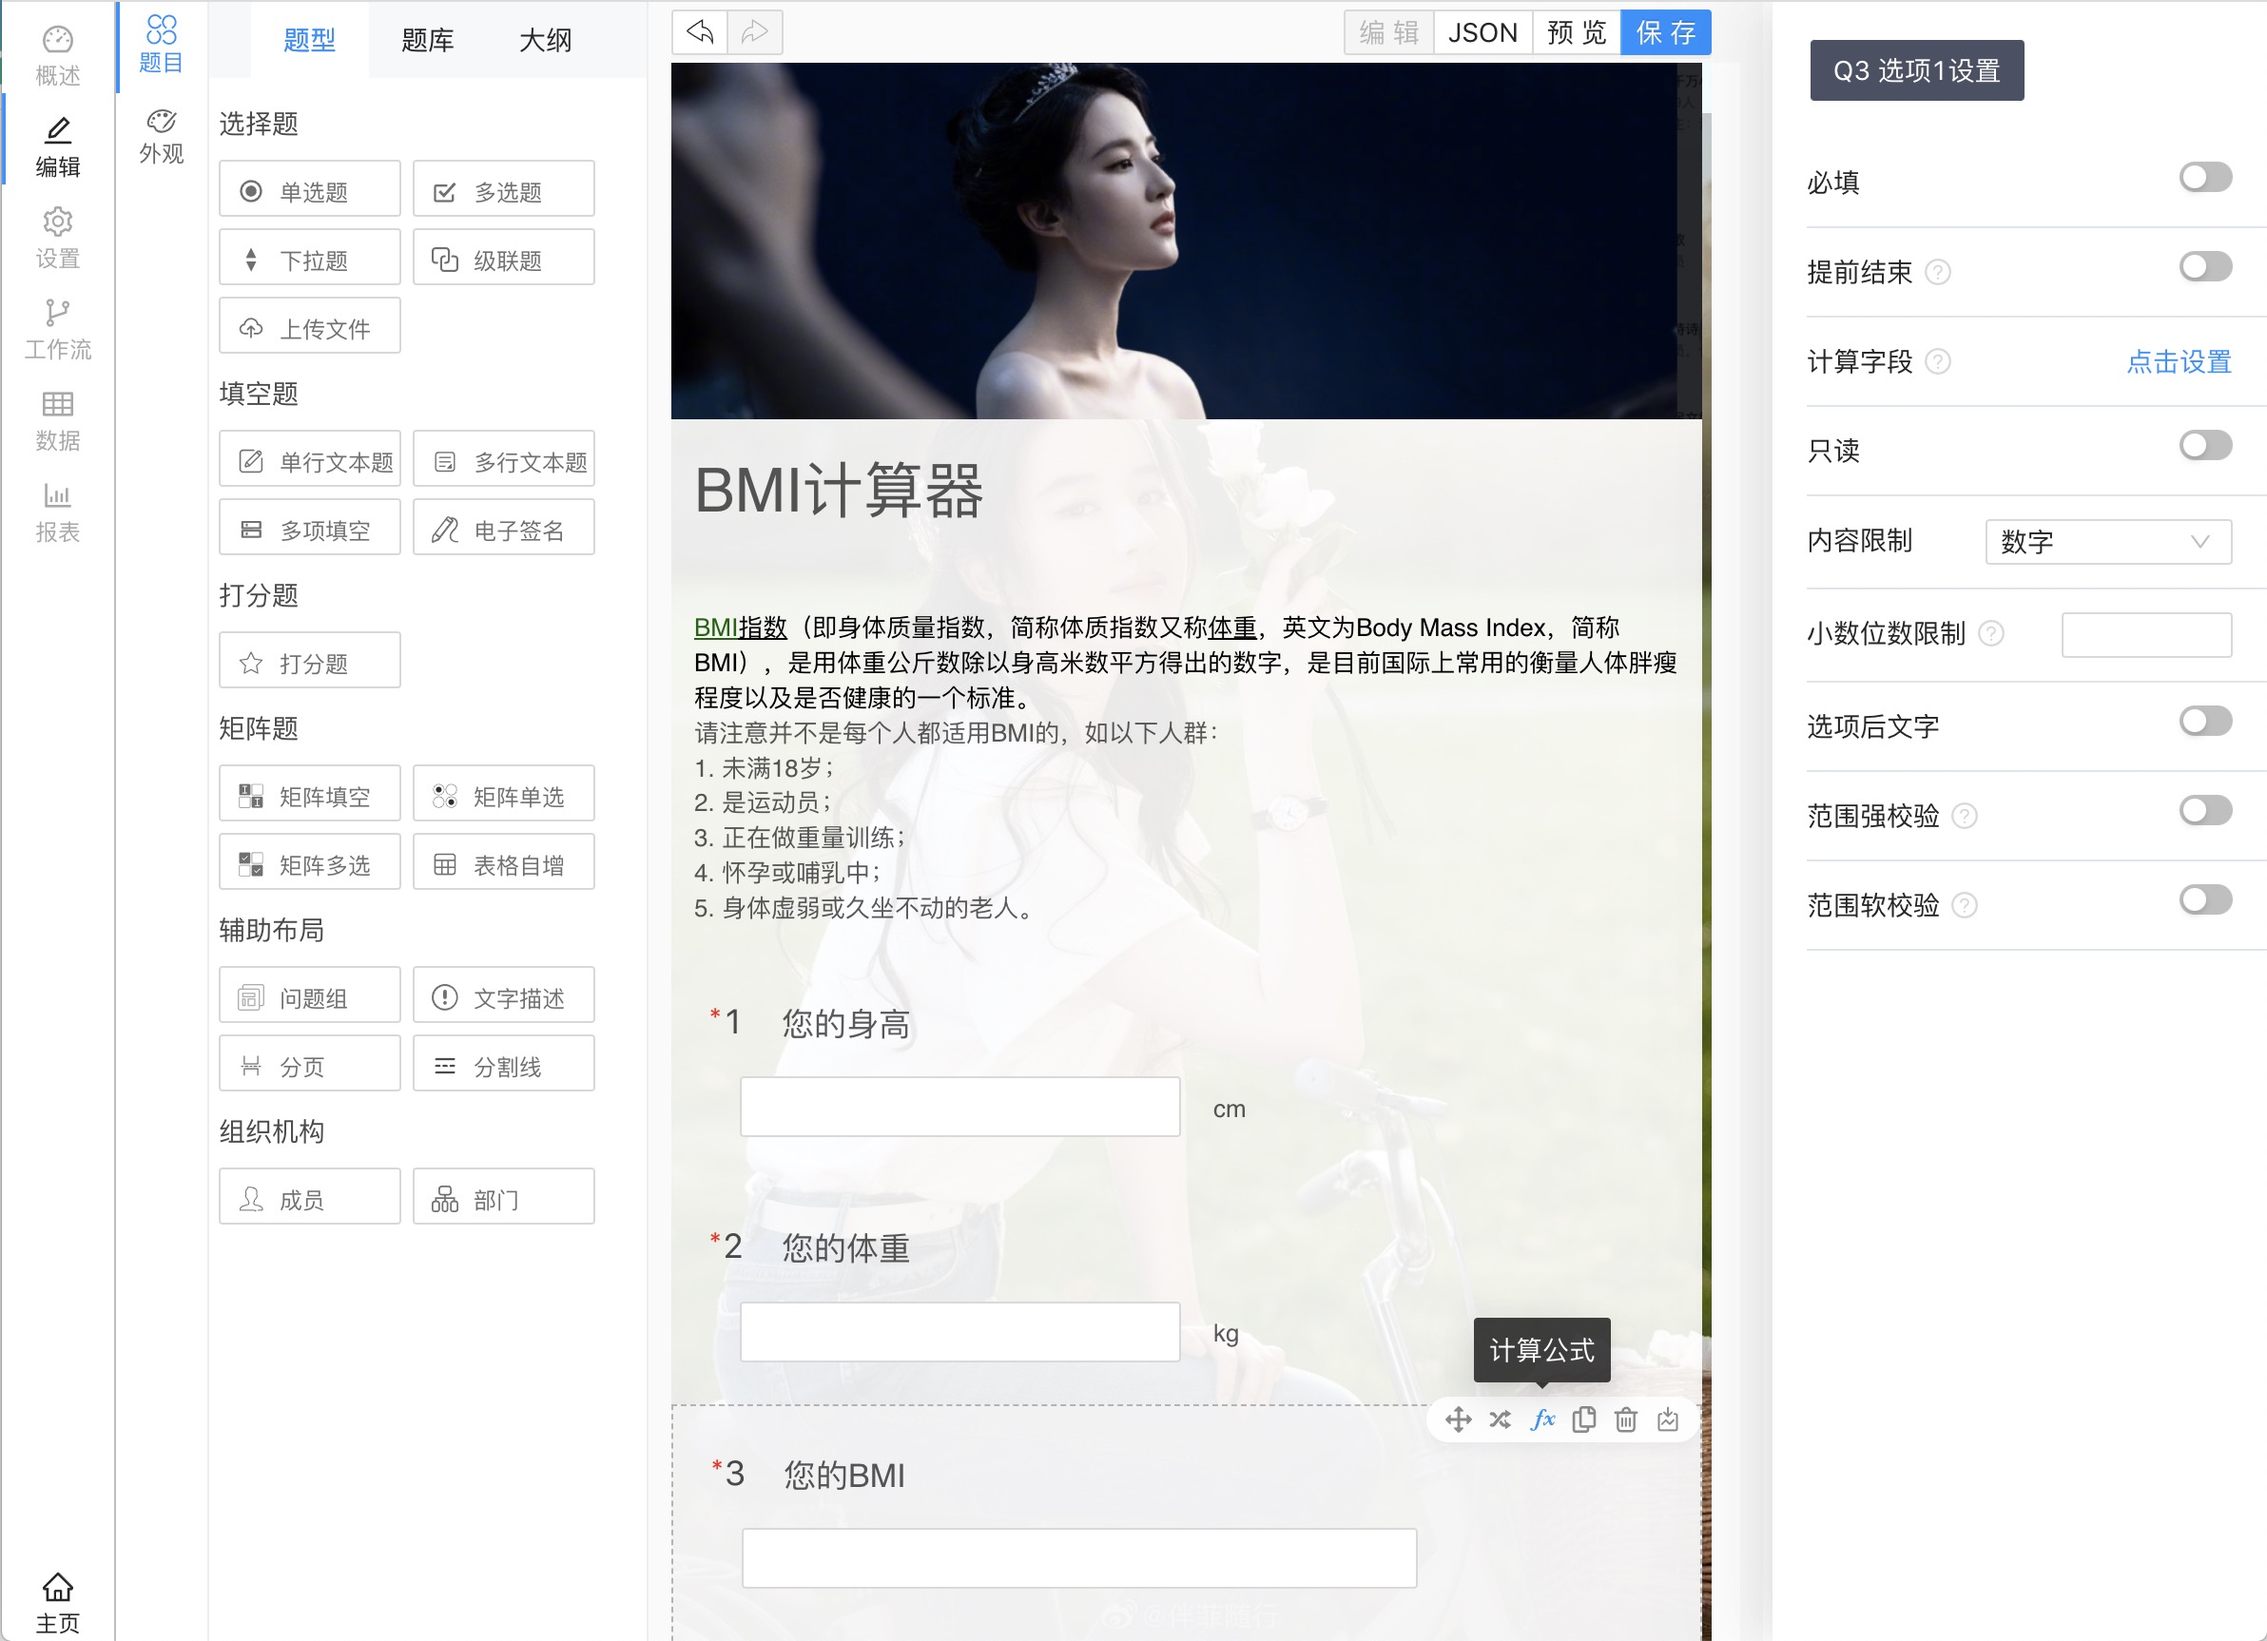
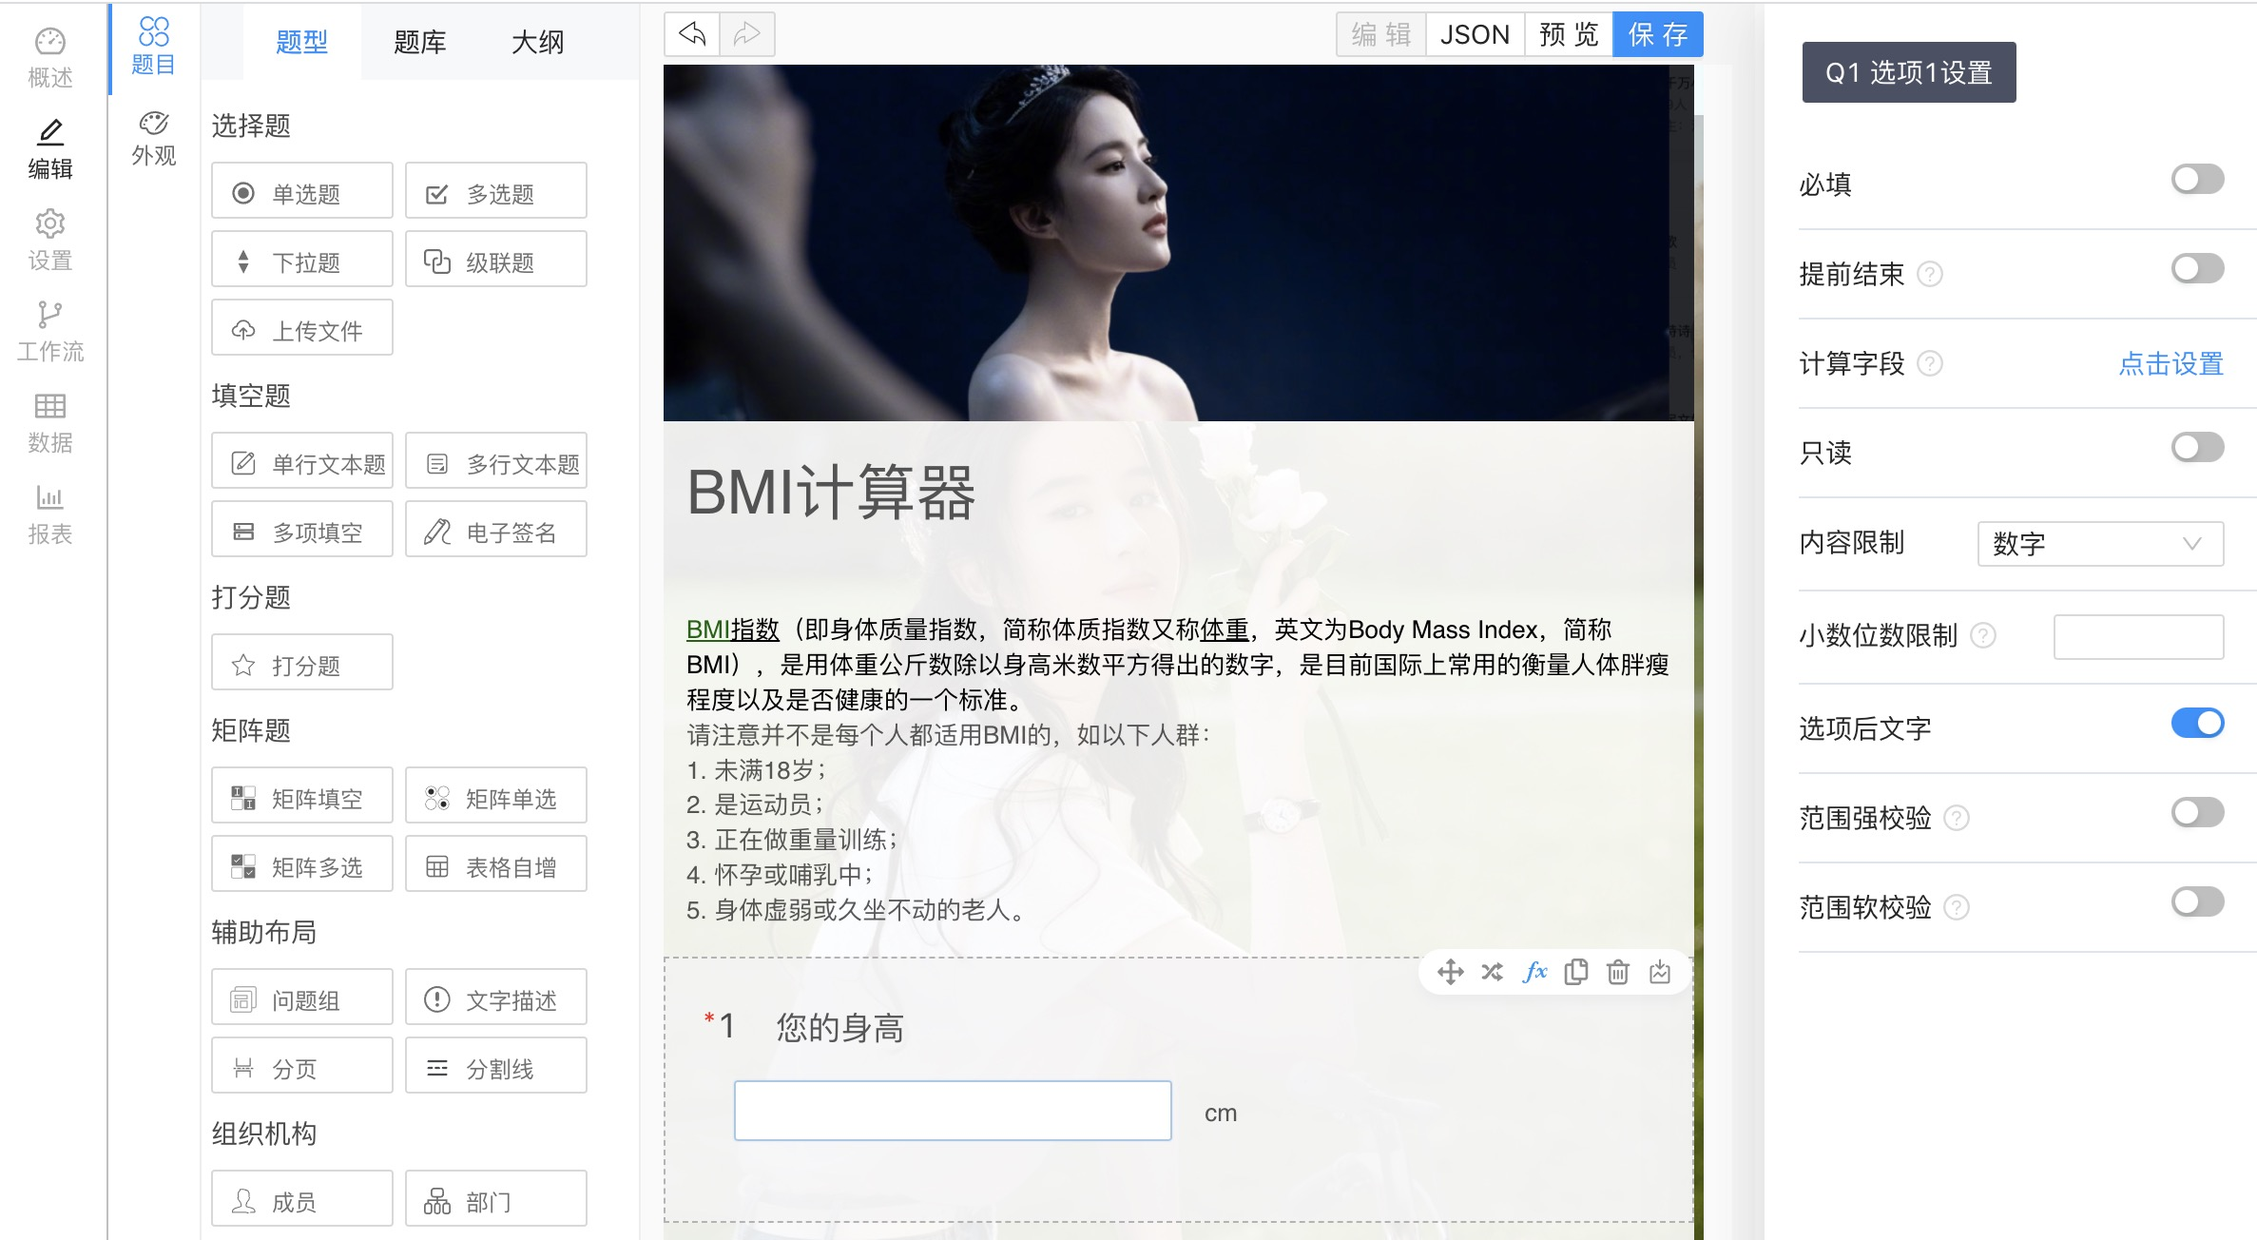
docs: 更新预览图

diff --git a/README.md b/README.md
@@ -2,7 +2,7 @@
 
 简体中文 | [English](./README.en-us.md)
 
-![preview-surveyking](./docs/preview.jpg)
+<img src="./docs/preview.jpg" width = "650" height = "400" alt="" align=center />
 
 <details>
   <summary>预览</summary>
